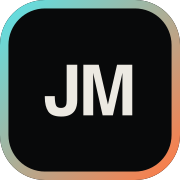
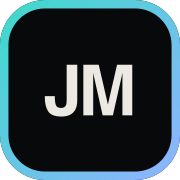
Cool palette, counted stats, new OG image
- Replace the orange accent with teal (engineering) and ice blue (sales)
  across text, particles, dots, glyphs, gradients, favicon and OG image
- Numbers: "30+ projects built" and "1,200+ API routes shipped across his
  projects", counted in career/audit/project-count.md and api-route-count.md

Changed region(s): [[0.0, 0.0, 1.0, 1.0]]

diff --git a/src/sections/Method.tsx b/src/sections/Method.tsx
@@ -13,17 +13,17 @@ function Glyph({ id }: { id: string }) {
       return (
         <svg viewBox="0 0 120 120" className={common} aria-hidden>
           {[0, 1, 2].map((i) => (
-            <circle key={i} cx="60" cy="60" r="18" fill="none" stroke="#f26b3a" strokeWidth="1.2" style={{ transformOrigin: '60px 60px', animation: `ripple 3s ${i}s ease-out infinite` }} />
+            <circle key={i} cx="60" cy="60" r="18" fill="none" stroke="#8db4ff" strokeWidth="1.2" style={{ transformOrigin: '60px 60px', animation: `ripple 3s ${i}s ease-out infinite` }} />
           ))}
-          <circle cx="60" cy="60" r="5" fill="#f26b3a" />
+          <circle cx="60" cy="60" r="5" fill="#8db4ff" />
         </svg>
       )
     case 'scoping':
       return (
         <svg viewBox="0 0 120 120" className={common} aria-hidden>
           <rect x="22" y="22" width="76" height="76" rx="6" fill="none" stroke="#ece9e2" strokeOpacity=".5" strokeDasharray="6 6" style={{ animation: 'dash 6s linear infinite' }} />
-          <rect x="38" y="38" width="44" height="44" rx="4" fill="#9fbdd3" fillOpacity=".15" stroke="#9fbdd3" />
-          <path d="M8 60h14M98 60h14M60 8v14M60 98v14" stroke="#f26b3a" strokeWidth="1.4" />
+          <rect x="38" y="38" width="44" height="44" rx="4" fill="#3fd9cb" fillOpacity=".15" stroke="#3fd9cb" />
+          <path d="M8 60h14M98 60h14M60 8v14M60 98v14" stroke="#8db4ff" strokeWidth="1.4" />
         </svg>
       )
     case 'prototype':
@@ -37,7 +37,7 @@ function Glyph({ id }: { id: string }) {
               width="20"
               height="20"
               rx="4"
-              fill={i === 4 ? '#f26b3a' : '#9fbdd3'}
+              fill={i === 4 ? '#8db4ff' : '#3fd9cb'}
               fillOpacity={i === 4 ? 0.9 : 0.25}
               style={{ animation: `blink 2.4s ${i * 0.12}s ease-in-out infinite` }}
             />
@@ -47,7 +47,7 @@ function Glyph({ id }: { id: string }) {
     case 'deploy':
       return (
         <svg viewBox="0 0 120 120" className={common} aria-hidden>
-          <path d="M6 70h26l8-24 12 46 10-34 6 12h46" fill="none" stroke="#9fbdd3" strokeWidth="1.6" strokeLinejoin="round" strokeDasharray="200" style={{ animation: 'trace 2.6s ease-in-out infinite' }} />
+          <path d="M6 70h26l8-24 12 46 10-34 6 12h46" fill="none" stroke="#3fd9cb" strokeWidth="1.6" strokeLinejoin="round" strokeDasharray="200" style={{ animation: 'trace 2.6s ease-in-out infinite' }} />
           <path d="M6 70h108" stroke="#ece9e2" strokeOpacity=".12" />
         </svg>
       )
@@ -55,7 +55,7 @@ function Glyph({ id }: { id: string }) {
       return (
         <svg viewBox="0 0 120 120" className={common} aria-hidden>
           {[14, 26, 44, 70].map((h, i) => (
-            <rect key={i} x={20 + i * 22} y={100 - h} width="14" height={h} rx="3" fill={i === 3 ? '#f26b3a' : '#ece9e2'} fillOpacity={i === 3 ? 0.95 : 0.2} style={{ transformOrigin: `0 100px`, animation: `grow 3s ${i * 0.15}s ease-in-out infinite` }} />
+            <rect key={i} x={20 + i * 22} y={100 - h} width="14" height={h} rx="3" fill={i === 3 ? '#8db4ff' : '#ece9e2'} fillOpacity={i === 3 ? 0.95 : 0.2} style={{ transformOrigin: `0 100px`, animation: `grow 3s ${i * 0.15}s ease-in-out infinite` }} />
           ))}
         </svg>
       )
@@ -145,7 +145,7 @@ export default function Method() {
                   <span
                     aria-hidden
                     className={`pointer-events-none absolute -right-24 -top-24 h-64 w-64 rounded-full blur-3xl transition-opacity duration-1000 ${active === i ? 'opacity-100' : 'opacity-0'}`}
-                    style={{ background: i % 2 ? 'rgb(159 189 211 / .10)' : 'rgb(242 107 58 / .10)' }}
+                    style={{ background: i % 2 ? 'rgb(63 217 203 / .10)' : 'rgb(141 180 255 / .10)' }}
                   />
                   <div className="flex items-start justify-between gap-6">
                     <div>

diff --git a/src/content/projects.ts b/src/content/projects.ts
@@ -65,7 +65,7 @@ export const projects: Project[] = [
     stack: ['TypeScript', 'Next.js 15', 'Hono', 'Drizzle', 'PostgreSQL 17', 'Clerk OAuth', 'MCP SDK', 'Expo'],
     links: [],
     privacy: 'Private repository. Screens use demo data with fictional businesses.',
-    palette: ['#9FBDD3', '#F26B3A'],
+    palette: ['#3FD9CB', '#8DB4FF'],
     cover: '01-profit-leak-report',
     span: 7,
     tags: ['MCP', 'Forecasting', '9 integrations'],
@@ -86,7 +86,7 @@ export const projects: Project[] = [
     stack: ['Expo', 'React Native', 'TypeScript', 'Node.js', 'Supabase', 'Postgres RLS', 'OpenAI', 'Next.js 16'],
     links: [],
     privacy: 'Client name withheld. Private repositories; screens are anonymized demo data.',
-    palette: ['#F26B3A', '#E8B97A'],
+    palette: ['#8DB4FF', '#9FE3C4'],
     span: 5,
     tags: ['IIoT', 'Realtime', 'iOS + Android'],
   },
@@ -131,7 +131,7 @@ export const projects: Project[] = [
     stack: ['TypeScript', 'Next.js 16', 'PostgreSQL 17', 'Drizzle', 'pg-boss', 'Anthropic SDK', 'OpenAI SDK', 'Docker'],
     links: [],
     privacy: 'Private repository. Screens use the demo database only.',
-    palette: ['#B8B3D6', '#9FBDD3'],
+    palette: ['#B8B3D6', '#3FD9CB'],
     cover: '03-deal-radar',
     span: 5,
     tags: ['Workers', 'Guarded AI', 'Public data'],
@@ -150,7 +150,7 @@ export const projects: Project[] = [
     ],
     stack: ['Next.js 16', 'TypeScript', 'Drizzle', 'Postgres', 'Plaid', 'Clerk', 'OpenAI', 'MCP'],
     links: [{ label: 'GitHub', href: 'https://github.com/pixelate-solutions/link' }],
-    palette: ['#9FBDD3', '#A9C9B5'],
+    palette: ['#3FD9CB', '#A9C9B5'],
     span: 4,
     tags: ['Plaid', 'MCP', 'Open source'],
   },
@@ -168,7 +168,7 @@ export const projects: Project[] = [
     ],
     stack: ['Python', 'FastAPI', 'ChromaDB', 'PyMuPDF', 'Tesseract', 'Ollama', 'React', 'three.js'],
     links: [{ label: 'GitHub', href: 'https://github.com/pixelate-solutions/civic-records-ai' }],
-    palette: ['#9FBDD3', '#9FBDD3'],
+    palette: ['#3FD9CB', '#3FD9CB'],
     span: 4,
     tags: ['RAG', 'On-prem', 'OCR'],
   },
@@ -187,7 +187,7 @@ export const projects: Project[] = [
     stack: ['Next.js 16', 'React 19', 'TypeScript', 'Zod', 'Drizzle', 'Postgres', 'Tailwind v4', 'Vercel'],
     links: [],
     privacy: 'Private repository. Pricing, cost and margin data are never shown.',
-    palette: ['#F26B3A', '#E07A5F'],
+    palette: ['#8DB4FF', '#6FA0F2'],
     cover: '01-pdu-step-power',
     span: 4,
     tags: ['Rules engine', 'CPQ', 'Sales tooling'],
@@ -206,7 +206,7 @@ export const projects: Project[] = [
     ],
     stack: ['TypeScript', 'Turborepo', 'Next.js', 'Supabase', 'OpenAI', 'MCP client', 'Zod', 'Railway'],
     links: [{ label: 'GitHub', href: 'https://github.com/pixelate-solutions/Marlow' }],
-    palette: ['#E8B97A', '#F26B3A'],
+    palette: ['#9FE3C4', '#8DB4FF'],
     span: 4,
     tags: ['Agents', 'MCP client', 'Approval gates'],
   },
@@ -224,7 +224,7 @@ export const projects: Project[] = [
     ],
     stack: ['TypeScript', 'Turborepo', 'Hono', 'Cloudflare Workers', 'Next.js', 'Postgres', 'Drizzle', 'MCP'],
     links: [{ label: 'GitHub', href: 'https://github.com/pixelate-solutions/MeminiOS' }],
-    palette: ['#B8B3D6', '#F26B3A'],
+    palette: ['#B8B3D6', '#8DB4FF'],
     span: 4,
     tags: ['RAG', 'Permissions', 'MCP'],
   },
@@ -245,7 +245,7 @@ export const projects: Project[] = [
       { label: 'Live site', href: 'https://northstartravelguide.com' },
       { label: 'GitHub', href: 'https://github.com/pixelate-solutions/northstar-web' },
     ],
-    palette: ['#9FBDD3', '#E8B97A'],
+    palette: ['#3FD9CB', '#9FE3C4'],
     cover: '02-trip-map',
     span: 4,
     tags: ['Consumer', 'SwiftUI', 'Tool calling'],

diff --git a/src/sections/Stack.tsx b/src/sections/Stack.tsx
@@ -8,7 +8,7 @@ const W = 1000
 const H = 660
 const CX = W / 2
 const CY = H / 2 + 6
-const hueColor = { sell: '#f26b3a', build: '#9fbdd3', both: '#ece9e2' } as const
+const hueColor = { sell: '#8db4ff', build: '#3fd9cb', both: '#ece9e2' } as const
 
 // Cross-links between groups that show where the two halves meet.
 const bridges: [string, string, string][] = [
@@ -97,7 +97,7 @@ export default function Stack() {
             </h2>
           </div>
           <p data-stack-in className="self-end text-lg leading-relaxed text-mute lg:col-span-4">
-            Engineering in <span className="text-build">blue</span>, the field in <span className="text-sell">orange</span>. The lines between them are the work I like most.
+            Engineering in <span className="text-build">teal</span>, the field in <span className="text-sell">blue</span>. The lines between them are the work I like most.
           </p>
         </div>
 
@@ -247,8 +247,8 @@ export default function Stack() {
 
               <g>
                 <circle cx={CX} cy={CY} r="34" fill="#08090a" stroke="#ece9e2" strokeOpacity=".5" />
-                <circle cx={CX} cy={CY} r="34" fill="none" stroke="#f26b3a" strokeOpacity=".6" strokeDasharray="53 160" style={{ transformOrigin: `${CX}px ${CY}px`, animation: 'spin 9s linear infinite' }} />
-                <circle cx={CX} cy={CY} r="34" fill="none" stroke="#9fbdd3" strokeOpacity=".6" strokeDasharray="53 160" strokeDashoffset="107" style={{ transformOrigin: `${CX}px ${CY}px`, animation: 'spin 9s linear infinite' }} />
+                <circle cx={CX} cy={CY} r="34" fill="none" stroke="#8db4ff" strokeOpacity=".6" strokeDasharray="53 160" style={{ transformOrigin: `${CX}px ${CY}px`, animation: 'spin 9s linear infinite' }} />
+                <circle cx={CX} cy={CY} r="34" fill="none" stroke="#3fd9cb" strokeOpacity=".6" strokeDasharray="53 160" strokeDashoffset="107" style={{ transformOrigin: `${CX}px ${CY}px`, animation: 'spin 9s linear infinite' }} />
                 <text x={CX} y={CY + 5} textAnchor="middle" className="fill-bone text-[14px] font-bold">
                   JM
                 </text>

diff --git a/src/sections/Story.tsx b/src/sections/Story.tsx
@@ -154,10 +154,10 @@ export default function Story() {
             <svg data-path-svg className="pointer-events-none absolute left-0 top-0" aria-hidden>
               <defs>
                 <linearGradient id="story-grad" gradientUnits="objectBoundingBox" x1="0" x2="1" y1="0" y2="0">
-                  <stop offset="0" stopColor="#9fbdd3" />
-                  <stop offset="0.3" stopColor="#9fbdd3" />
-                  <stop offset="0.45" stopColor="#f26b3a" />
-                  <stop offset="0.6" stopColor="#e8b97a" />
+                  <stop offset="0" stopColor="#3fd9cb" />
+                  <stop offset="0.3" stopColor="#3fd9cb" />
+                  <stop offset="0.45" stopColor="#8db4ff" />
+                  <stop offset="0.6" stopColor="#9fe3c4" />
                   <stop offset="1" stopColor="#ece9e2" />
                 </linearGradient>
                 <filter id="story-blur" x="-10%" y="-50%" width="120%" height="200%">

diff --git a/src/components/Portrait.tsx b/src/components/Portrait.tsx
@@ -136,7 +136,7 @@ export default function Portrait({ className = '' }: { className?: string }) {
       </div>
 
       {/* colour wash: cool on the engineer side, warm on the seller side */}
-      <div className="pointer-events-none absolute inset-0 mix-blend-soft-light" style={{ background: 'linear-gradient(90deg, rgb(159 189 211 / .35), transparent 45%, transparent 55%, rgb(242 107 58 / .35))' }} />
+      <div className="pointer-events-none absolute inset-0 mix-blend-soft-light" style={{ background: 'linear-gradient(90deg, rgb(63 217 203 / .35), transparent 45%, transparent 55%, rgb(141 180 255 / .35))' }} />
       <div className="pointer-events-none absolute inset-x-0 bottom-0 h-1/3 bg-gradient-to-t from-ink/80 via-ink/20 to-transparent" />
 
       {/* divider */}

diff --git a/src/sections/Contact.tsx b/src/sections/Contact.tsx
@@ -42,7 +42,7 @@ export default function Contact() {
       <div
         className="pointer-events-none absolute inset-0 -z-10"
         aria-hidden
-        style={{ background: 'radial-gradient(60% 50% at 20% 100%, rgb(159 189 211 / .10), transparent 70%), radial-gradient(60% 50% at 85% 90%, rgb(242 107 58 / .12), transparent 70%)' }}
+        style={{ background: 'radial-gradient(60% 50% at 20% 100%, rgb(63 217 203 / .10), transparent 70%), radial-gradient(60% 50% at 85% 90%, rgb(141 180 255 / .12), transparent 70%)' }}
       />
       <div className="container-x">
         <h2 id="contact-title" data-contact-title className="display text-[clamp(3.6rem,13vw,14rem)] leading-[0.85]">

diff --git a/src/sections/Hero.tsx b/src/sections/Hero.tsx
@@ -65,7 +65,7 @@ export default function Hero() {
           className="absolute inset-0"
           style={{
             background:
-              'radial-gradient(50% 40% at 12% 30%, rgb(143 179 201 / .10), transparent 70%), radial-gradient(45% 40% at 18% 80%, rgb(242 107 58 / .10), transparent 70%), radial-gradient(40% 50% at 78% 55%, rgb(236 233 226 / .06), transparent 70%)',
+              'radial-gradient(50% 40% at 12% 30%, rgb(63 217 203 / .10), transparent 70%), radial-gradient(45% 40% at 18% 80%, rgb(141 180 255 / .10), transparent 70%), radial-gradient(40% 50% at 78% 55%, rgb(236 233 226 / .06), transparent 70%)',
           }}
         />
         {showField && (

diff --git a/src/content/site.ts b/src/content/site.ts
@@ -40,8 +40,9 @@ export const ledgers: { id: 'book' | 'code'; title: string; byline: string; stat
     title: 'At Pixelate Solutions',
     byline: 'Founder and engineer, since 2024',
     stats: [
-      { value: 4, label: 'products in production' },
-      { value: 217, label: 'API routes behind one of them' },
+      // Counted in career/audit/project-count.md (36 counted, 29 without borderline items) and api-route-count.md.
+      { value: 30, suffix: '+', label: 'projects built' },
+      { value: 1200, suffix: '+', label: 'API routes shipped across his projects' },
     ],
   },
 ]

diff --git a/src/components/SignalField.tsx b/src/components/SignalField.tsx
@@ -106,8 +106,8 @@ function Streams({ count, mergeX }: { count: number; mergeX: number }) {
       uMouse: { value: new THREE.Vector2(99, 99) },
       uView: { value: new THREE.Vector2(1, 1) },
       uMergeX: { value: mergeX },
-      uBuild: { value: new THREE.Color('#9fbdd3') },
-      uSell: { value: new THREE.Color('#f26b3a') },
+      uBuild: { value: new THREE.Color('#3fd9cb') },
+      uSell: { value: new THREE.Color('#8db4ff') },
       uBone: { value: new THREE.Color('#f4f1ea') },
     }),
     [mergeX],

diff --git a/src/styles/index.css b/src/styles/index.css
@@ -30,8 +30,8 @@
   --color-mute: #9a978f;
   --color-dim: #85827b;
   --color-line: rgb(236 233 226 / 0.1);
-  --color-sell: #f26b3a;
-  --color-build: #9fbdd3;
+  --color-sell: #8db4ff;
+  --color-build: #3fd9cb;
   --color-both: #ece9e2;
 
   --font-sans: 'Satoshi', ui-sans-serif, system-ui, -apple-system, 'Segoe UI', sans-serif;
